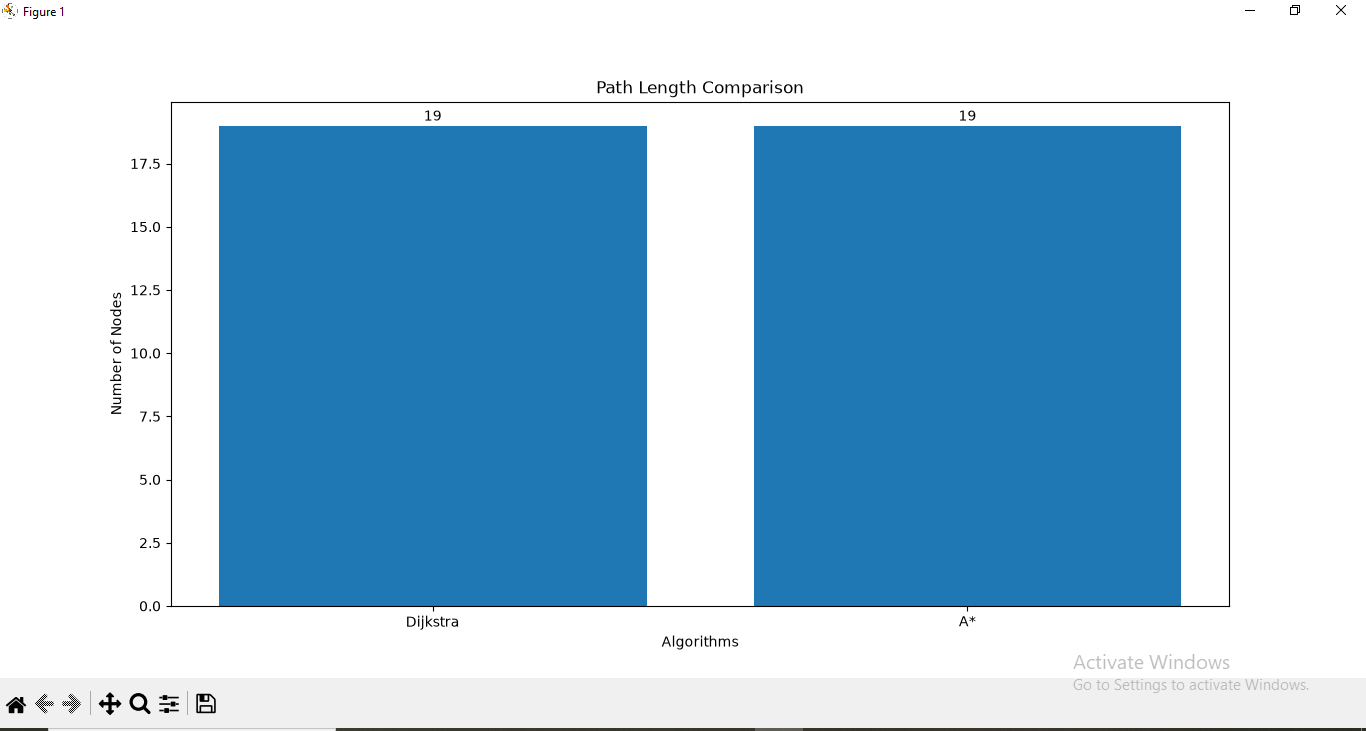
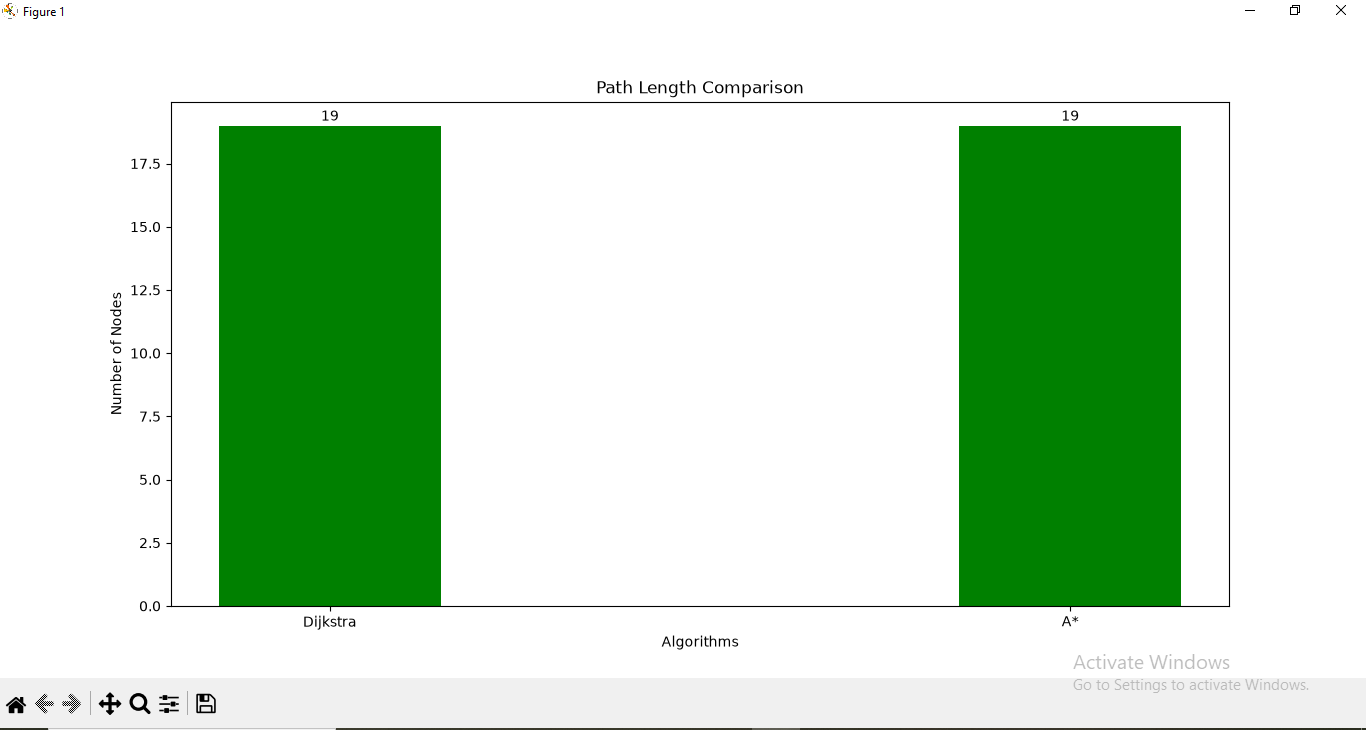
Updated bar graph size and color

diff --git a/python_scripts/path_comparison.py b/python_scripts/path_comparison.py
@@ -7,7 +7,7 @@ algorithms = ["Dijkstra", "A*"]
 path_lengths = [dijkstra_length, a_star_length]
 
 plt.title("Path Length Comparison")
-plt.bar(algorithms, path_lengths)
+plt.bar(algorithms, path_lengths, color="green", width=0.3)
 plt.xlabel("Algorithms")
 plt.ylabel("Number of Nodes")
 

diff --git a/python_scripts/runtime_comparison.py b/python_scripts/runtime_comparison.py
@@ -5,7 +5,7 @@ runtimes = [0.0014338999753817916, 0.0009506999631412327]
 
 
 plt.title("Runtime Comparison")
-plt.bar(algorithms, runtimes, color="green")
+plt.bar(algorithms, runtimes, color="green", width=0.3)
 plt.xlabel("Algorithms")
 plt.ylabel("Execution Time (seconds)")
 
